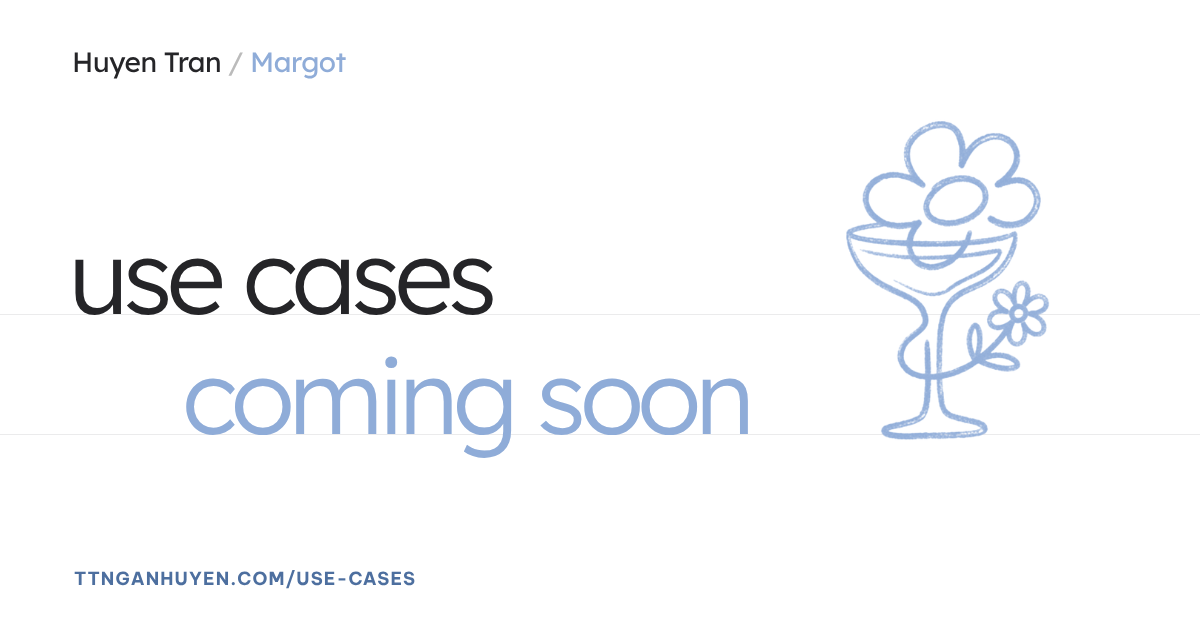
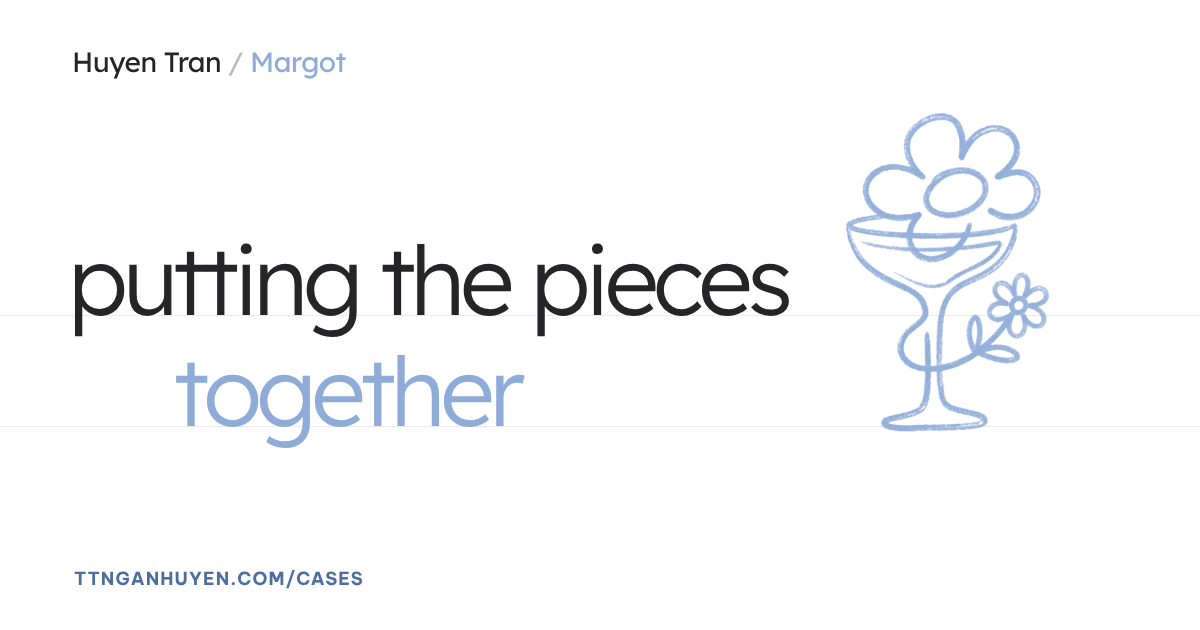
Cases page: In practice label, new headline, drop intro paragraph; redraw its link thumbnail
Claude-Session: https://claude.ai/code/session_01V6iSCjwew1B6GQSPLhHT5s

diff --git a/index.html b/index.html
@@ -207,6 +207,7 @@ section[hidden] { display: none !important; }
 .soon-h > span { display: block; } .soon-h .s2 { padding-left: 1.1em; color: var(--orange); }
 /* phones: each line stays whole; the second line sits flush right instead of indented */
 @media (max-width: 760px) { .soon-h { font-size: min(3.2rem, 14.2vw); } .soon-h > span { white-space: nowrap; } .soon-h .s2 { padding-left: 0; text-align: right; } } .soon-h .cur { height: .78em; vertical-align: -.04em; }
+#v-consulting .soon-h { font-size: clamp(2rem, 9vw, 9.2rem); } /* longer headline than the other tabs */
 .soon-p { font-family: var(--display); font-weight: 300; font-size: clamp(1.1rem, 1.7vw, 1.5rem); letter-spacing: -0.02em; line-height: 1.45; max-width: 34ch; margin: 34px 0 0; }
 .soon-grid { display: grid; grid-template-columns: repeat(3, minmax(0, 1fr)); gap: clamp(14px, 2vw, 28px); margin-top: clamp(50px, 8vh, 90px); }
 .soon-card { position: relative; border: 1px dashed color-mix(in srgb, var(--accent-ink) 55%, transparent); border-radius: 6px; padding: 26px 24px 30px; min-height: 230px; display: flex; flex-direction: column; overflow: hidden; }
@@ -1089,9 +1090,8 @@ the best ones bloom over a drink</p>
 <div class="view" id="v-consulting" hidden>
   <section class="band soon ruled-soon">
     <div class="in">
-      <span class="label">Consulting · use cases</span>
-      <h1 class="soon-h"><span>use cases</span><span class="s2">coming soon<span class="cur"></span></span></h1>
-      <p class="soon-p">Strategy, data and process work from real projects, written up as short cases. I'm putting them together now.</p>
+      <span class="label">In practice</span>
+      <h1 class="soon-h"><span>putting the pieces</span><span class="s2">together<span class="cur"></span></span></h1>
       <div class="soon-grid">
         <div class="soon-card"><span class="k">( 01 ) Strategy</span><h3>Digital transformation, step by step</h3><p>How a team moves from spreadsheets and habits to tools people actually use.</p><span class="tag">Coming soon</span></div>
         <div class="soon-card"><span class="k">( 02 ) Data</span><h3>Dashboards that get read</h3><p>From raw rows to a few numbers leaders trust and check every morning.</p><span class="tag">Coming soon</span></div>

diff --git a/CLAUDE.md b/CLAUDE.md
@@ -47,7 +47,7 @@ Khẩu hiệu: "consulting by day, blooming by night".
 | `#/me` (hoặc `#/`) | `v-home` | Trang About (trang chủ), chi tiết ở phần dưới |
 | `#/chapters` | `v-work` | Danh sách vị trí, chỉ có chữ, lấy từ mảng `WORK`. Chưa có ảnh hay logo, sau này sẽ thêm output từng dự án |
 | `#/chapters/<id>` | `v-case` | Trang chi tiết, `fillCase(id)` lấy dữ liệu từ `WORK`: tên đơn vị, năm, vai trò, các đoạn `p`, năng lực `caps`, các slide tạm `slides` |
-| `#/cases` | `v-consulting` | "use cases coming soon": 01 Strategy, 02 Data, 03 Process |
+| `#/cases` | `v-consulting` | Nhãn "In practice", tiêu đề "putting the pieces / together" (Margot viết 26.10.2026, bỏ đoạn mô tả bên dưới; thumbnail `img/og-use-cases.png` đã vẽ lại theo tiêu đề này): 01 Strategy, 02 Data, 03 Process |
 | `#/words` | `v-stories` | Trang blog ("coming soon", nút Follow me on Instagram) |
 | `#/words/<id>` | `v-post` | Các bài blog, ví dụ `post-chuyen-ke` (tiếng Việt, 24.10.2026) |
 | contact | hộp thoại `#talk` | Form liên hệ / xin lời khuyên (các nút `.talk-open`, `data-mode="contact"` hoặc `"advice"`) |
